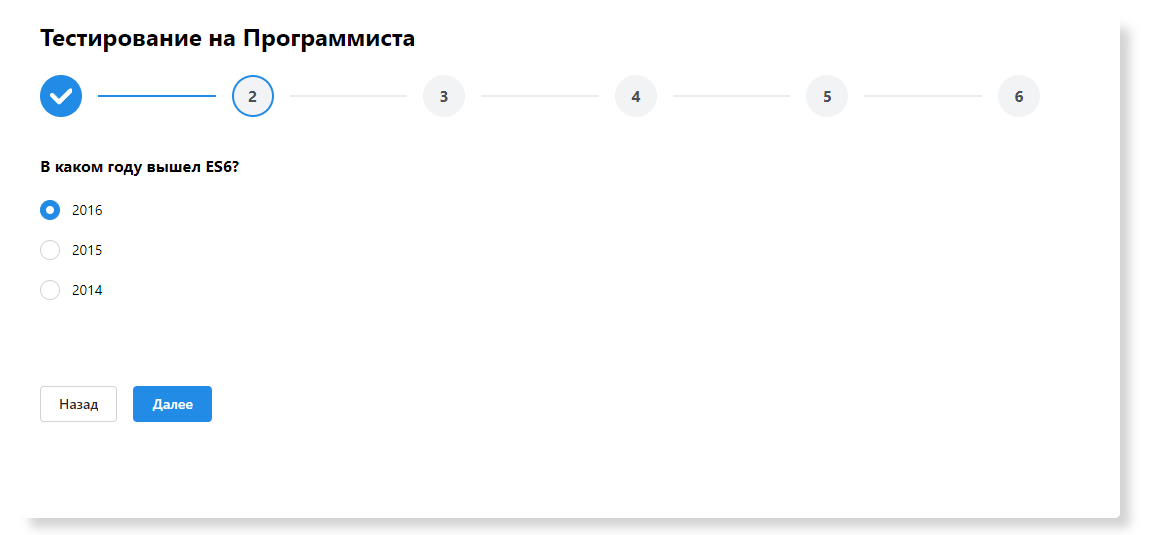
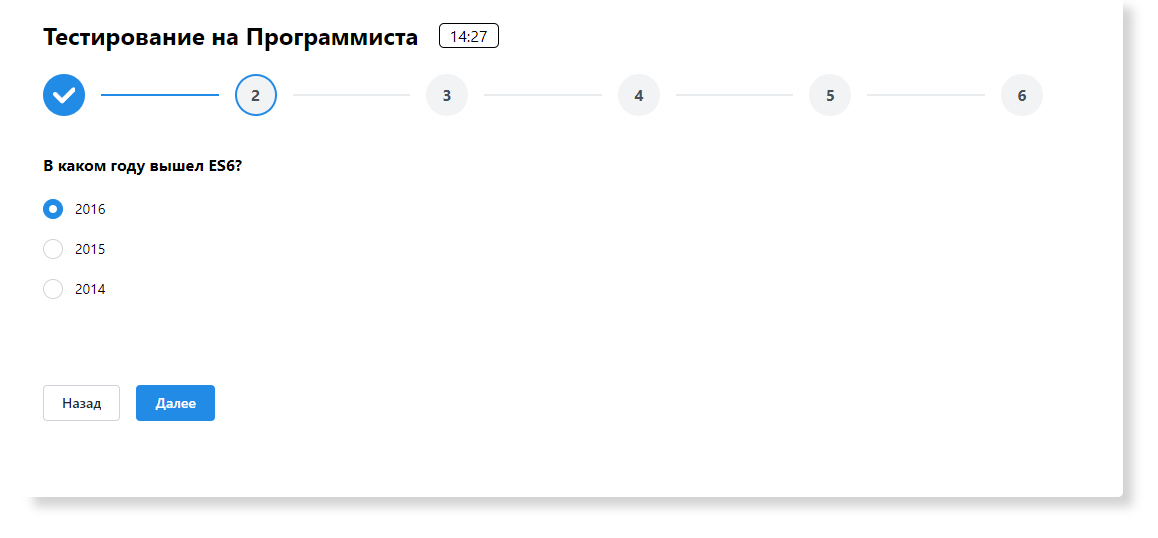
add timer

diff --git a/src/App.tsx b/src/App.tsx
@@ -7,12 +7,12 @@ import setTimer from "./tools/setTimer";
 
 function App() {
   fillLocalStorage();
-  setTimer(900);
+  setTimer(20);
   return (
     <div className={styles.app}>
       <div className={styles.header}>
         <h2>Тестирование на Программиста</h2>
-        <Timer seconds={3600} />
+        <Timer />
       </div>
       <Test />
     </div>

diff --git a/src/components/timer/Timer.tsx b/src/components/timer/Timer.tsx
@@ -15,11 +15,7 @@ const formatTime = (timer: number) => {
   return minutes + ":" + seconds;
 };
 
-type Props = {
-  seconds: number;
-};
-
-const Timer: FC<Props> = ({ seconds }) => {
+const Timer: FC = () => {
   const [countDown, setCountDown] = useState<number>(10);
   const timerId = useRef<NodeJS.Timeout | null>(null);
 

diff --git a/src/components/timer/Timer.module.css b/src/components/timer/Timer.module.css
@@ -5,4 +5,5 @@
   border-radius: 5px;
   border: 1px solid black;
   margin-left: 20px;
+  margin-top: 5px;
 }

diff --git a/README.md b/README.md
@@ -16,8 +16,8 @@
 4. Так же имеется возможность вернуться на несколько вопросов назад и изменить свой ответ.
 5. При перезагрузке страницы прогресс выполнения сохраняется (благодаря localStorage).
 6. Когда пользователь проходит все ответы у него появляется возможность "Отправить" ответ - в таком случае пропадает возможность взаимодействовать с интерфейсом, а пользователь видит всплывающее окошко, оповещающее его о чём-либо (в данном случае сделана заглушка "ответ отправле на почту"), либо же перепройти тест заново - при нажании на "Заново" страница обоновляется и localStorage очищается.
-
-7) Для добавления новых вопросов в файле Test.tsx стоит добавить элемент <Stepper.Step>, а затем в него компонент с вопросом (так же как это уже сделано). Некоторые вопросы по типу первых 2х требует изменений в файлах questionData.ts и fillLocalStorage.ts. Таким образом для добавления вопрос нужно сделать 3 простых действия.
+7. Для добавления новых вопросов в файле Test.tsx стоит добавить элемент <Stepper.Step>, а затем в него компонент с вопросом (так же как это уже сделано). Некоторые вопросы по типу первых 2х требует изменений в файлах questionData.ts и fillLocalStorage.ts. Таким образом для добавления вопрос нужно сделать 3 простых действия.
+8. Для изменения таймера, нужно в файле App.tsx изменить значение функции setTimer(), в неё передаётся время в секундах. По истечении времени вылезает Alert с оповещением об окончании времени. Таймер при обновлении страницы не сбрасывается (Как и выбранные ответы).
 
 ## Скриншоты:
 
